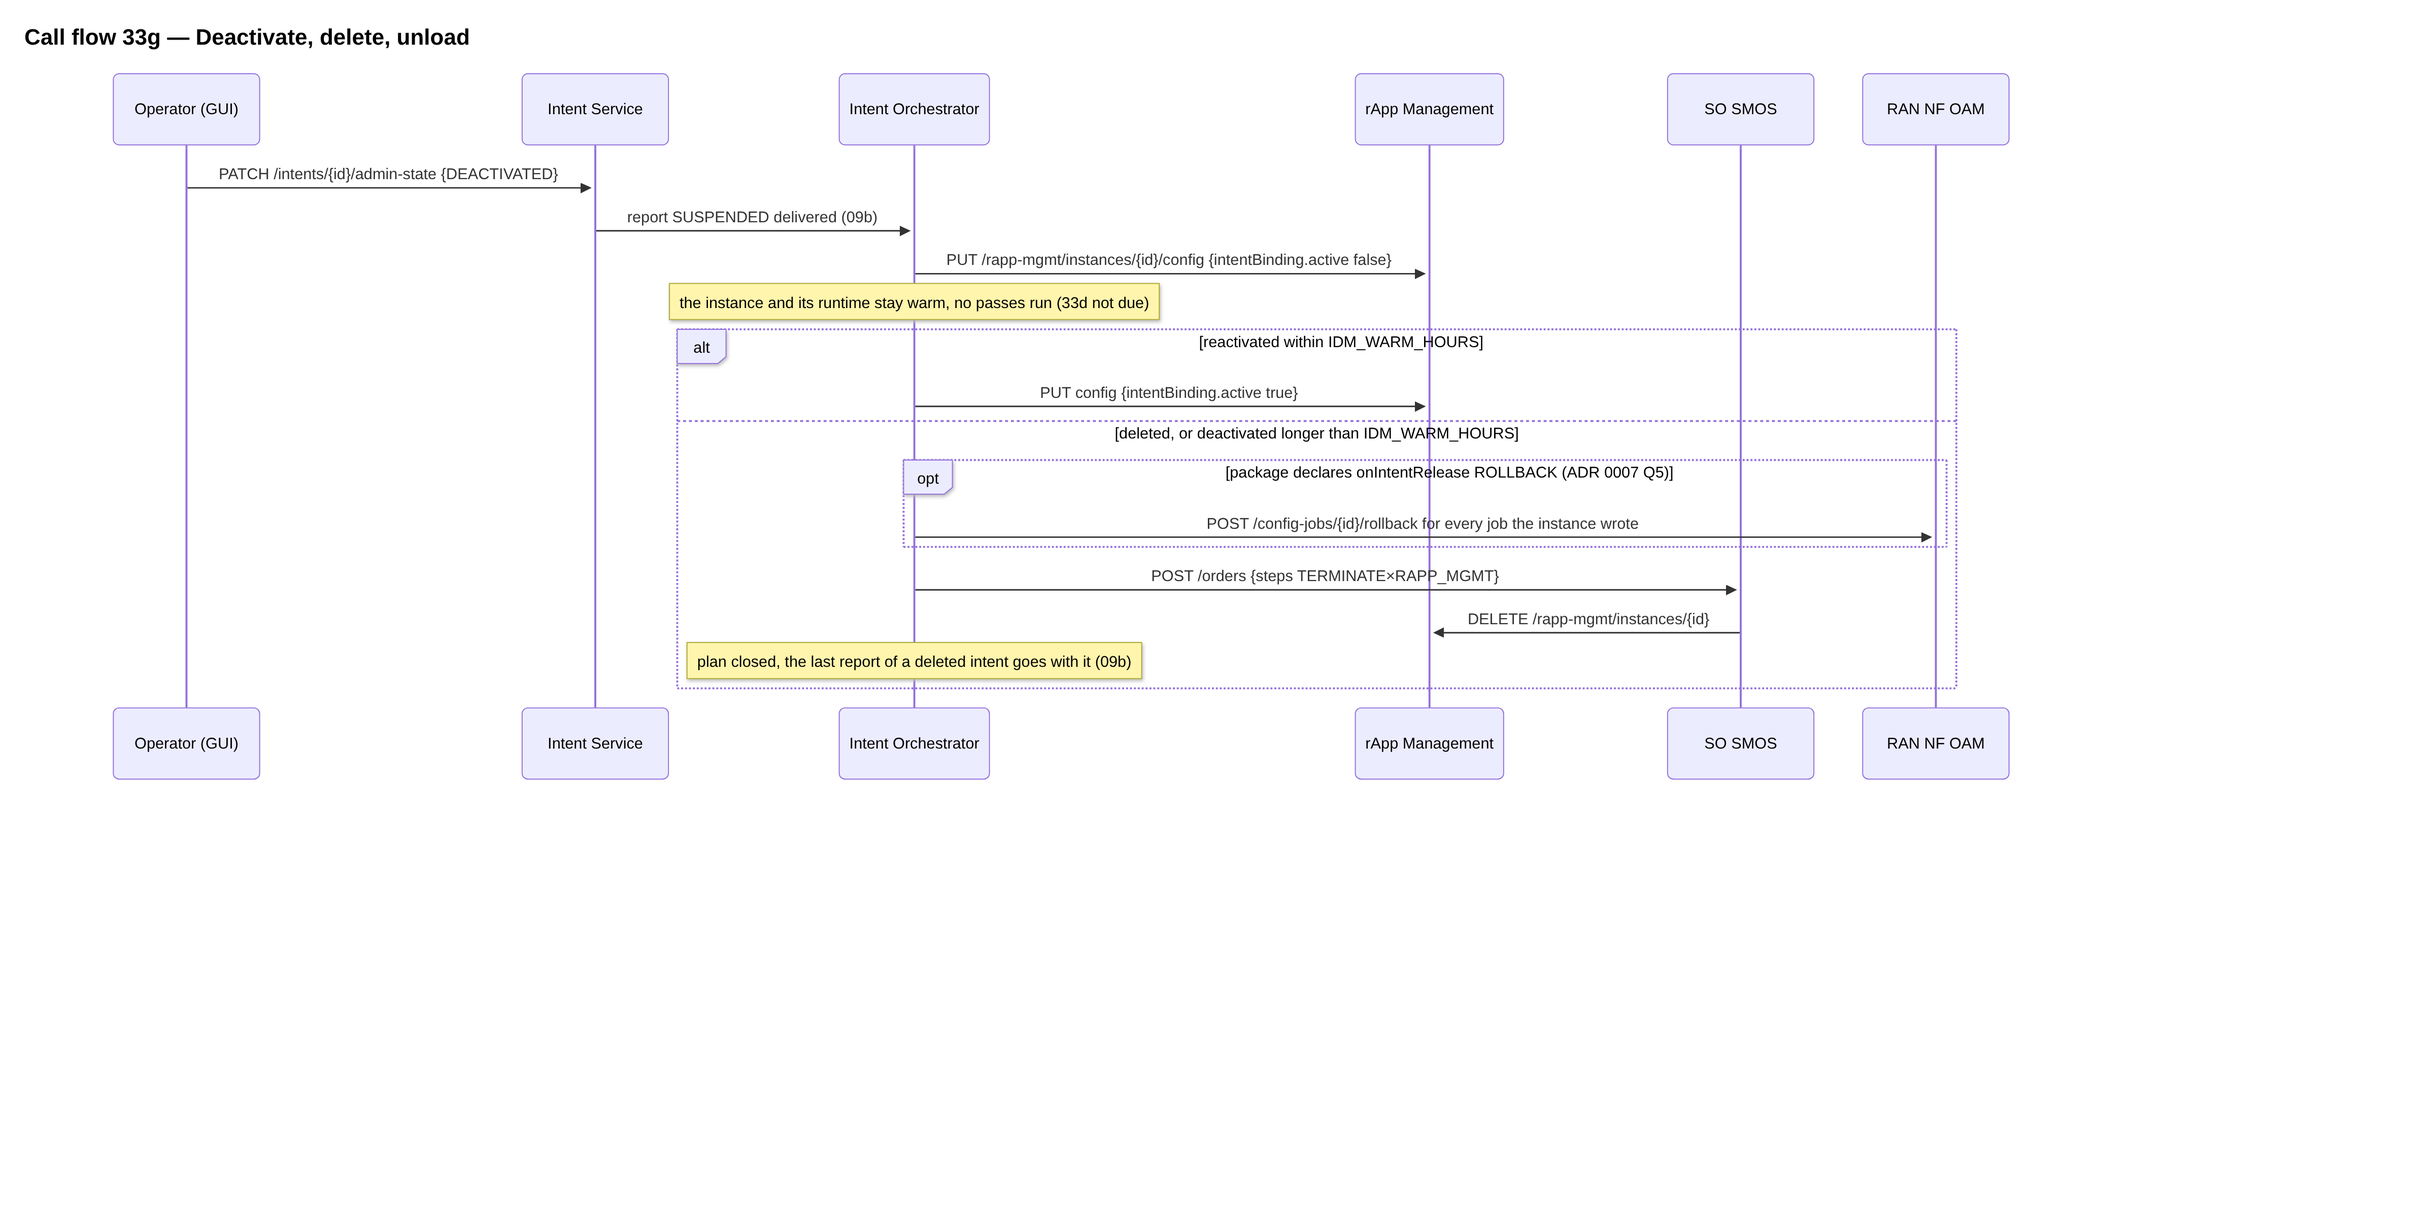
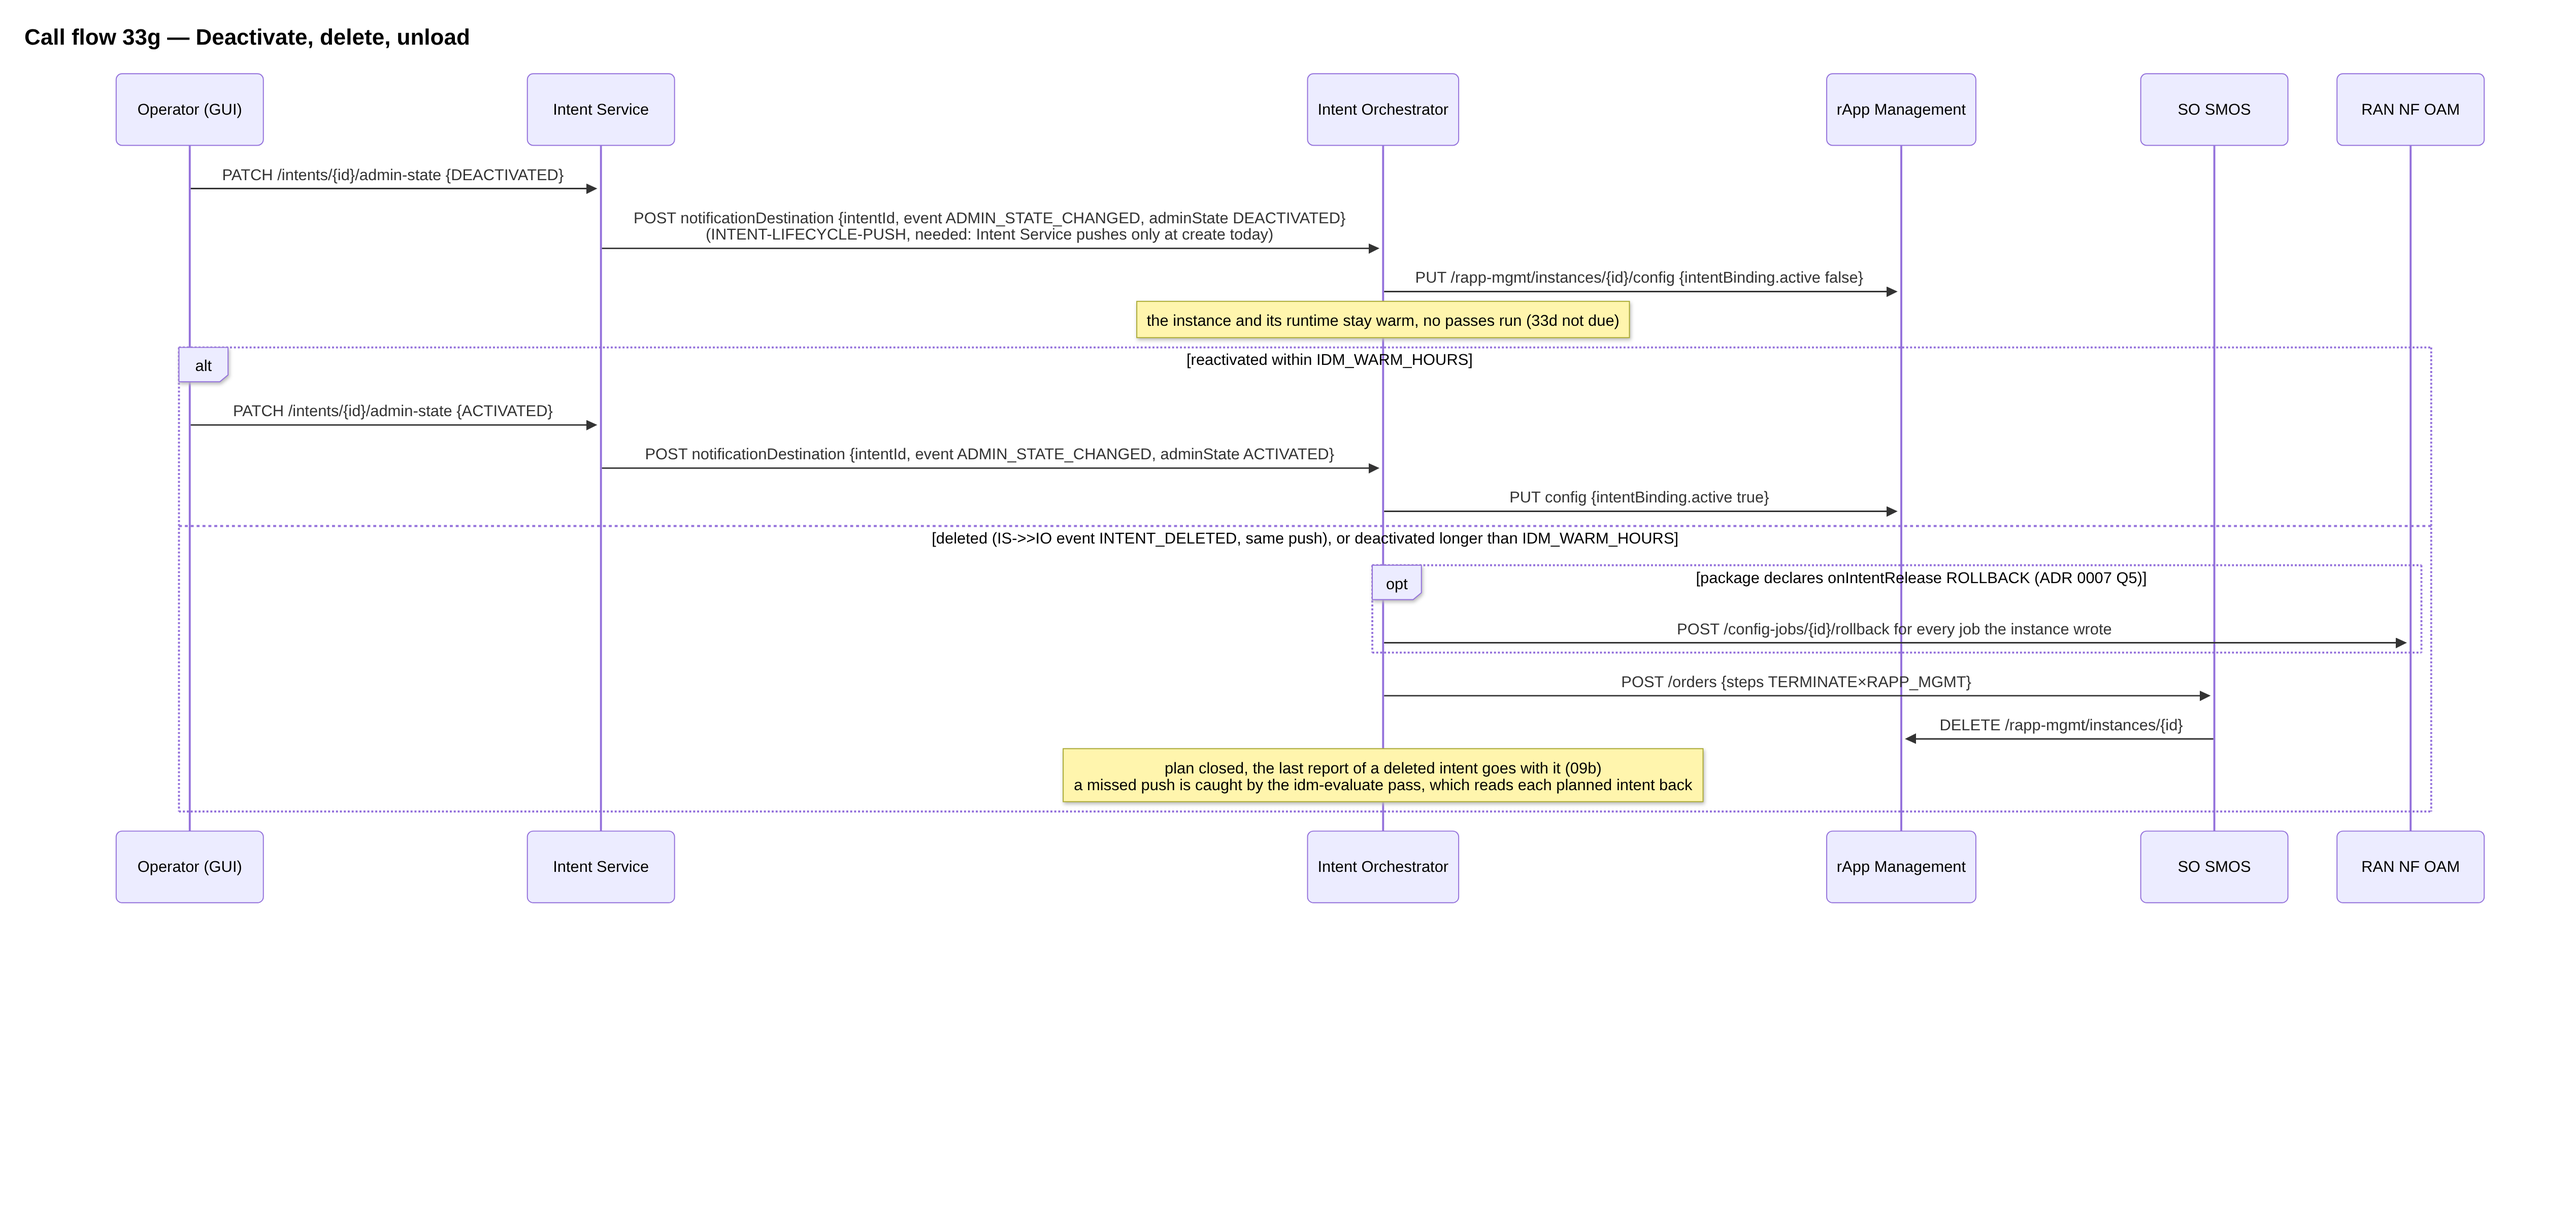
Docs: ADR 0007 and call flow 33 — admin-state and delete reach the handler; preemption keeps the owner's admin state
ADR 0007 needs INTENT-LIFECYCLE-PUSH: Intent Service pushes an intent to its
RMIH only at create, so the orchestrator could not learn of a deactivation,
reactivation or deletion (33g). A preempted intent no longer has its admin
state set by the orchestrator, which Intent Service refuses to a module that
is not the owner (09b); its loop is suspended through the binding (33f).
Images 33f and 33g re-rendered.

Claude-Session: https://claude.ai/code/session_0163qUDMuzvW1D444rjRmEEn

diff --git a/smo/docs/adr/0007-intent-driven-ai-ran-tier-1-intent.md b/smo/docs/adr/0007-intent-driven-ai-ran-tier-1-intent.md
@@ -192,6 +192,12 @@ record adds the rule that governance events must carry a console user (`X-R1-Act
   rules. Sharing an instance between intents is Q4.
 - **Unload**: DEACTIVATED keeps the instance and its runtime (warm) and stops inference (the binding's `active: false`); deletion of the intent, or
   DEACTIVATED for longer than `IDM_WARM_HOURS` (default 24), runs `TERMINATE`. What happens to CM values the loop wrote is per package (Q5).
+- **How the orchestrator learns of a change of admin state or a deletion.** Today it cannot: Intent Service pushes an intent to its RMIH only when it is
+  created (`_create_intent_row`); `PATCH /intents/{id}/admin-state` writes and delivers a report to the intent's report recipients and tells the RMIH
+  nothing, and `DELETE /intents/{id}` tells no one (`HISTORY.md` SA-REPLAY). Report delivery is not a substitute: the recipients are whoever the
+  intent's owner named. This record therefore **needs** the open item `INTENT-LIFECYCLE-PUSH`: Intent Service also pushes `{intentId, event
+  ADMIN_STATE_CHANGED | INTENT_DELETED, adminState}` to the RMIH's `notificationDestination` through the outbox. As a backstop the orchestrator's
+  `idm-evaluate` pass reads each planned intent back and acts on a state it missed.
 - **Failure**: SO SMOS has no rollback (`PR-MGT-17`). Until MGT-17.3 lands, the orchestrator runs the compensation itself from the order's executed
   steps (terminate the instance it created, cancel jobs), and reports `NOT_FULFILLED` with the failed step. MGT-17 is a `Needs` of slice 4.
 
@@ -237,7 +243,9 @@ On create, modify and every re-plan, in addition to Intent Service's target conf
   instances' recorded writes (`MGT-16.5`).
 - **Resolution, in order**: the consumer's handling guideline, given as the generic context `conflictHandlingGuideline` [O]
   (`PREFER_HIGHER_PRIORITY`, `REJECT_NEW`, `ASK_OPERATOR`); then `intentPriority` with `intentPreemptionCapability` [N] (the new intent preempts only if
-  it may and is strictly higher; the preempted one is DEACTIVATED and reported, never deleted); then a proposed later guarantee window; then refusal.
+  it may and is strictly higher; the preempted one keeps its admin state, which is its owner's alone (call flow 09b: a module's `requesterId` must be
+  the intent's `rmioId`): the orchestrator suspends its loop through the binding, reports it NOT_FULFILLED with the reason, and resumes it when the
+  preempting intent ends; never deleted); then a proposed later guarantee window; then refusal.
   Ties go to the operator (`MGT-16.4`).
 - Reported as `IntentConflictReport` [N] on both intents, naming the intent, expectation and target that collide.
 
@@ -316,7 +324,7 @@ images; `docs/STANDARDS.md` (TR 28.912 rows, [O] tags); `docs/config_description
 | 1 | Package declarations | `intentCapabilities` validated by Onboarding; the four sample manifests declare theirs. No behaviour. | – |
 | 2 | Orchestrator skeleton | Module, RMIH `ai-ran-ih` registration from the capability union, classification, selection, feasibility (no loading), conflict detection, reports; Type-1 children to `sa-smos` with traceability; the Intent Service rApp refusal | 1 |
 | 3 | Autonomy | Derivation, ceilings, admin routes and GUI list; Q3 | 2 |
-| 4 | Loading | SO SMOS `INSTANTIATE`/`TERMINATE`; orders from plans; `SEC-15.1c`; compensation until MGT-17 | 2, MGT-17.1/17.2 |
+| 4 | Loading | SO SMOS `INSTANTIATE`/`TERMINATE`; orders from plans; `SEC-15.1c`; compensation until MGT-17 | 2, MGT-17.1/17.2, INTENT-LIFECYCLE-PUSH |
 | 5 | Binding | `intentBinding`, SDK helpers in three languages, the four samples | 4 |
 | 6 | Assurance | `idm-evaluate`, fulfilment reports with achieved values, decomposition traceability, retrain rule, Q7 | 5, MGT-11 KPI names |
 | 7 | Round trip | Compose script and CI job (not required at first), call flow 33 images | 6 |

diff --git a/smo/docs/call-flows/33-intent-driven-ai-ran-tier-1.md b/smo/docs/call-flows/33-intent-driven-ai-ran-tier-1.md
@@ -242,8 +242,8 @@ sequenceDiagram
     alt conflictHandlingGuideline context on B [O]
         Note over IO: REJECT_NEW → B refused, PREFER_HIGHER_PRIORITY → as below, ASK_OPERATOR → both held for a person
     else B preempts (intentPreemptionCapability true and strictly higher intentPriority)
-        IO->>IS: PATCH /intents/A/admin-state {DEACTIVATED, requesterId ai-ran-ih} (33g, warm)
-        IO->>IS: POST /intent-reports for A and B {intentConflictReports naming A, B, the expectations and targets}
+        Note over IO: A's admin state is its owner's, not the handler's (09b), so A stays ACTIVATED<br/>the orchestrator suspends A's loop itself (binding inactive, 33g warm path)
+        IO->>IS: POST /intent-reports for A {fulfilment NOT_FULFILLED, preempted by B} and for A and B<br/>{intentConflictReports naming A, B, the expectations and targets}
     else a later guarantee window frees the cells
         IO->>IS: POST /intent-reports for B {feasibility INFEASIBLE now, recommended guaranteePeriods start}
     else equal priority
@@ -251,7 +251,8 @@ sequenceDiagram
     end
 ```
 
-A preempted intent is deactivated and reported, never deleted, so its owner can reactivate it when the other ends.
+A preempted intent keeps its owner's admin state and is never deleted: the orchestrator only suspends its loop and reports why, and resumes it when B ends
+or is deactivated. Only the owner (or the console acting as the owner) changes an intent's admin state (call flow 09b).
 
 ## 33g — Deactivate, delete, unload
 
@@ -265,18 +266,20 @@ sequenceDiagram
     participant OAM as RAN NF OAM
 
     OP->>IS: PATCH /intents/{id}/admin-state {DEACTIVATED}
-    IS->>IO: report SUSPENDED delivered (09b)
+    IS->>IO: POST notificationDestination {intentId, event ADMIN_STATE_CHANGED, adminState DEACTIVATED}<br/>(INTENT-LIFECYCLE-PUSH, needed: Intent Service pushes only at create today)
     IO->>RM: PUT /rapp-mgmt/instances/{id}/config {intentBinding.active false}
     Note over IO: the instance and its runtime stay warm, no passes run (33d not due)
     alt reactivated within IDM_WARM_HOURS
+        OP->>IS: PATCH /intents/{id}/admin-state {ACTIVATED}
+        IS->>IO: POST notificationDestination {intentId, event ADMIN_STATE_CHANGED, adminState ACTIVATED}
         IO->>RM: PUT config {intentBinding.active true}
-    else deleted, or deactivated longer than IDM_WARM_HOURS
+    else deleted (IS->>IO event INTENT_DELETED, same push), or deactivated longer than IDM_WARM_HOURS
         opt package declares onIntentRelease ROLLBACK (ADR 0007 Q5)
             IO->>OAM: POST /config-jobs/{id}/rollback for every job the instance wrote
         end
         IO->>SO: POST /orders {steps TERMINATE×RAPP_MGMT}
         SO->>RM: DELETE /rapp-mgmt/instances/{id}
-        Note over IO: plan closed, the last report of a deleted intent goes with it (09b)
+        Note over IO: plan closed, the last report of a deleted intent goes with it (09b)<br/>a missed push is caught by the idm-evaluate pass, which reads each planned intent back
     end
 ```
 
